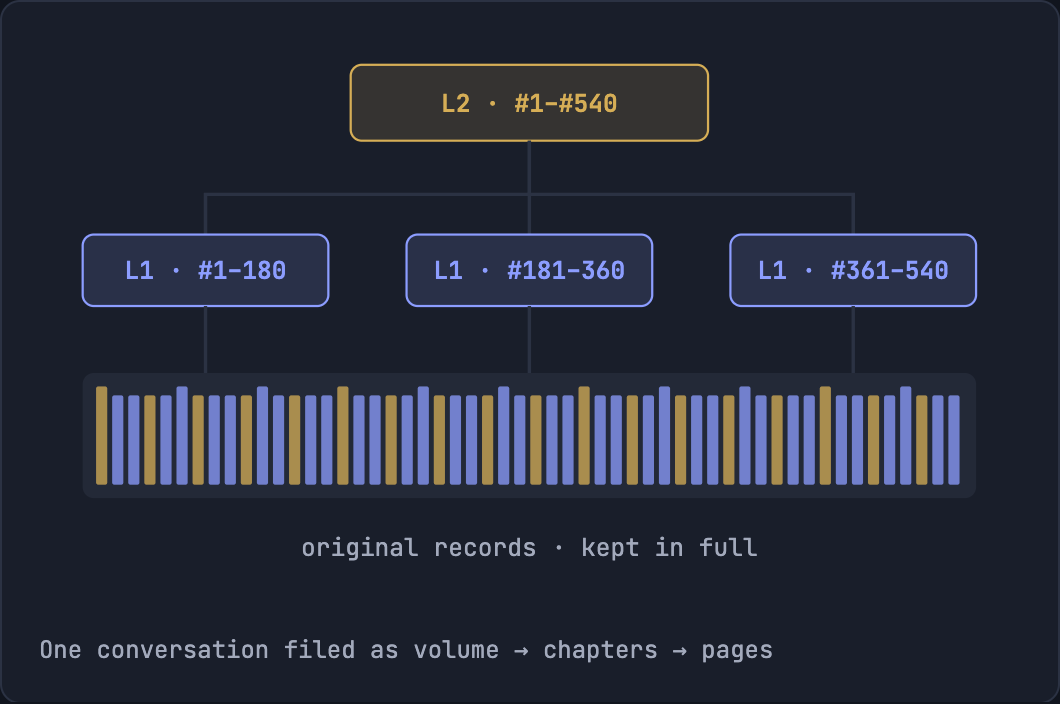
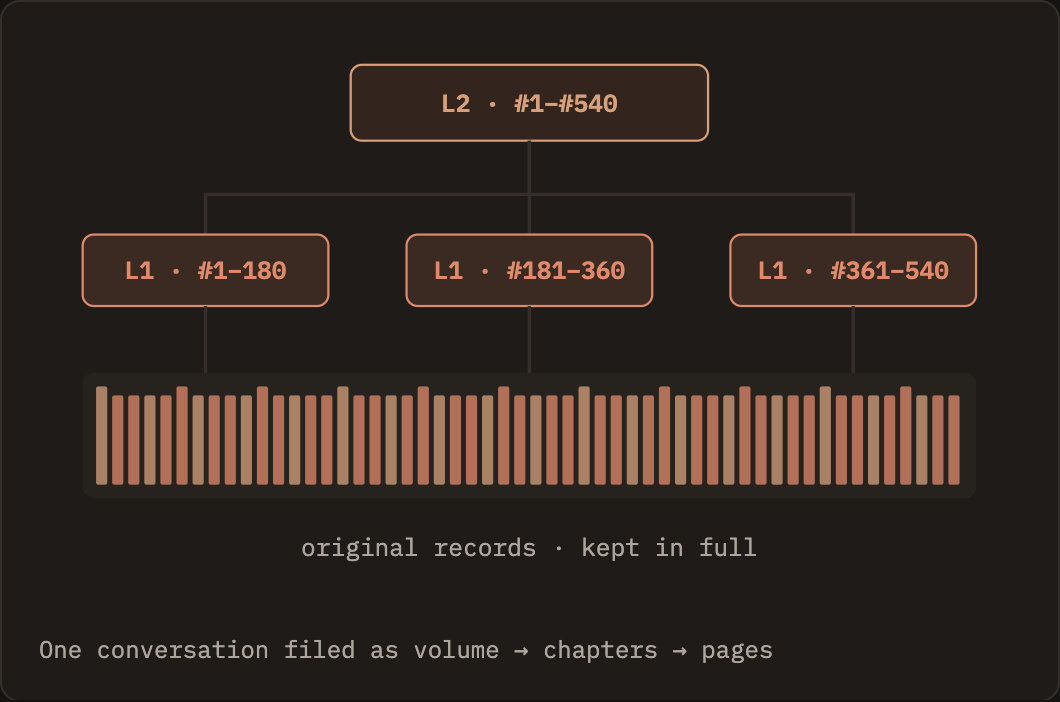
README: GitHub-native header, console orange palette in demos, cross-tool handoff verified

diff --git a/docs/VERIFICATION.md b/docs/VERIFICATION.md
@@ -43,3 +43,13 @@ Real local read-only discovery found Codex 0.155.1, Claude Code 2.1.280, Hermes 
 - GitHub repository visibility and npm publication were not changed.
 
 Repeatable commands and scope: [console contract](CONSOLE.md).
+
+## Cross-tool handoff (2026-09-28, real tools on macOS)
+
+Each tool was asked to `lcm_continue` a conversation captured by another tool, then `lcm_read` one record; every quoted record matched the archive byte for byte.
+
+- Claude Code continued Codex conversation #1bc05 and read record 3.
+- Codex continued Claude Code conversation #64b3a and read record 2.
+- Hermes continued Claude Code conversation #64b3a and read record 2.
+- Codex continued a summarized Claude Code conversation (2 levels, 18 summaries), answered a detail from the outline and quoted the source record by number.
+- Pi continued the same summarized conversation, received the level-2 outline and found the same detail in the quoted record.

diff --git a/README.md b/README.md
@@ -1,10 +1,8 @@
-<p align="center"><picture><source media="(prefers-color-scheme: dark)" srcset="docs/images/banner-dark.png"><img src="docs/images/banner-light.png" alt="SuperLcm — Permanent context. Turn your context into an archive." width="640"></picture></p>
+<h1 align="center">SuperLcm</h1>
+
+<p align="center"><b>Permanent context. Turn your context into an archive.</b></p>
 
 <p align="center"><b>English</b> · <a href="README.zh-CN.md">中文</a></p>
-
-# SuperLcm
-
-**Permanent context. Turn your context into an archive.**
 
 Everything you and your agent say is kept, word for word, on your own computer. Summaries are filed in layers like the chapters of a book, and any detail can be pulled back out and quoted exactly, even long after the context window has been compacted. It works across Claude Code, Codex, Hermes and Pi, and a conversation started in one can be continued in another.
 

diff --git a/README.zh-CN.md b/README.zh-CN.md
@@ -1,10 +1,8 @@
-<p align="center"><picture><source media="(prefers-color-scheme: dark)" srcset="docs/images/banner-dark.png"><img src="docs/images/banner-light.png" alt="SuperLcm — 永久上下文，把上下文变成档案馆" width="640"></picture></p>
+<h1 align="center">SuperLcm</h1>
+
+<p align="center"><b>永久上下文，把上下文变成档案馆。</b></p>
 
 <p align="center"><a href="README.md">English</a> · <b>中文</b></p>
-
-# SuperLcm
-
-**永久上下文，把上下文变成档案馆。**
 
 你和 AI 说过的每一句话，一字不差地存在你自己的电脑上。摘要像一本书的章节那样一层层归档，任何细节都能原样调出来引用，哪怕上下文早就被压缩过好几轮。Claude Code、Codex、Hermes、Pi 共用同一座档案馆，在一个工具里开的头，可以到另一个工具里接着干。
 
